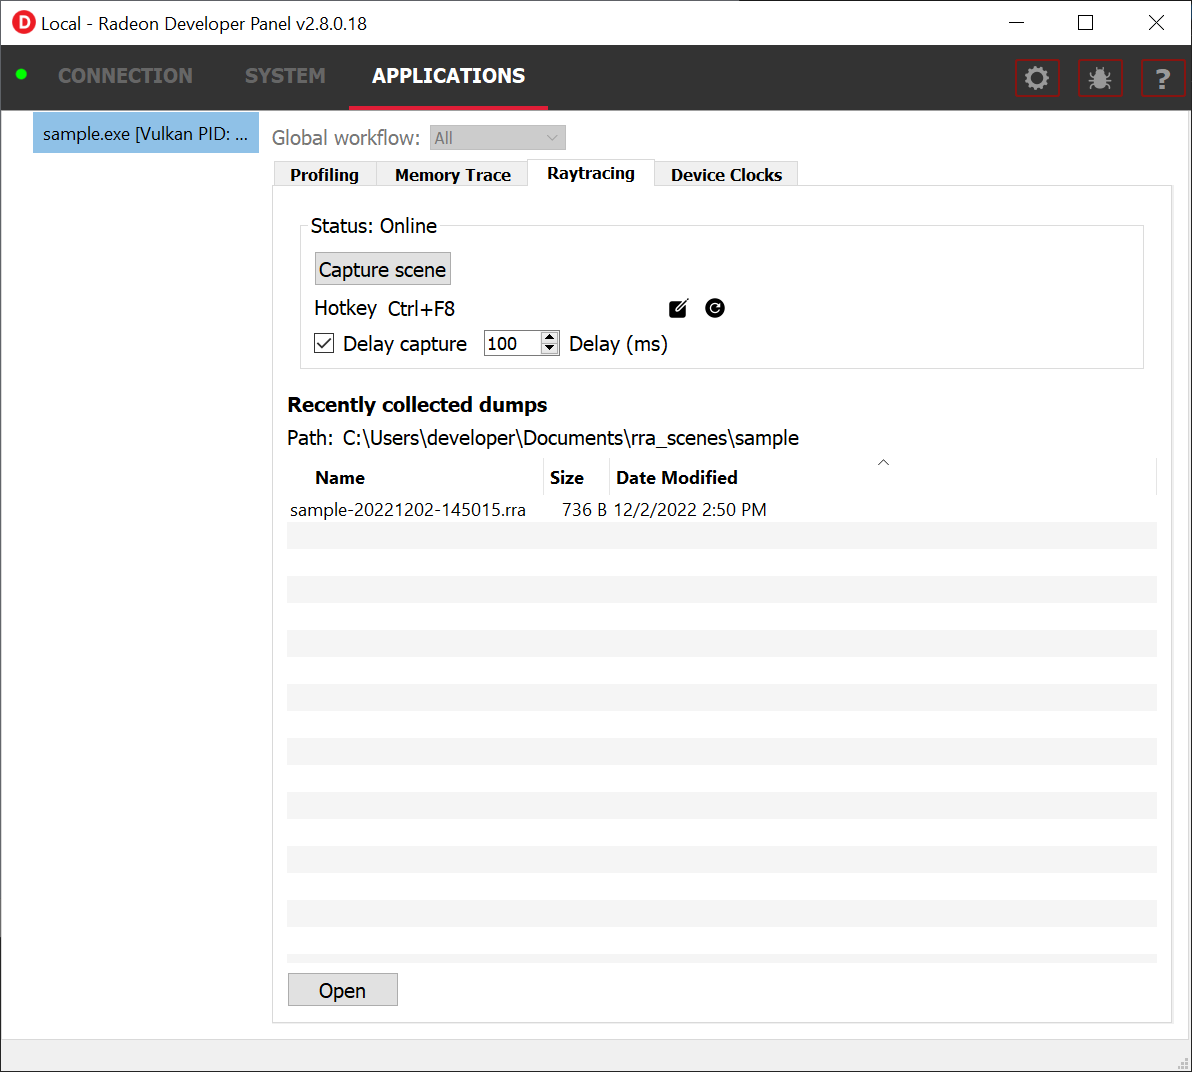
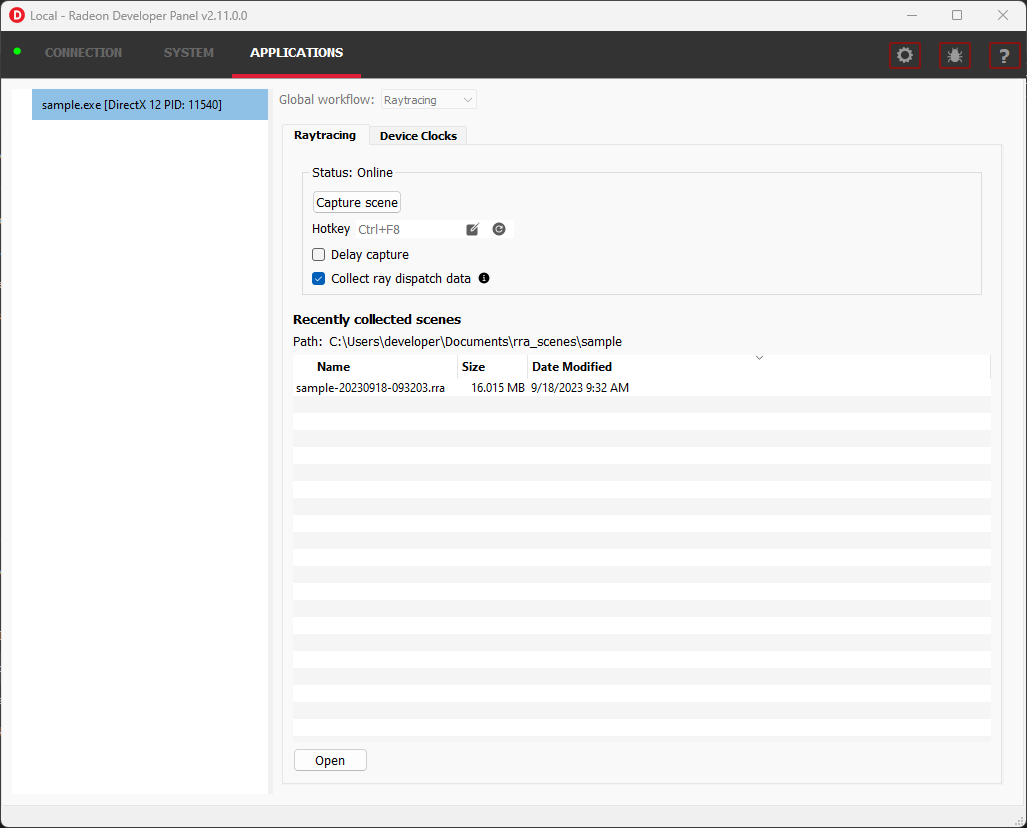
Update documentation for 2.11 release (#41)

diff --git a/docs/source/conf.py b/docs/source/conf.py
@@ -54,9 +54,9 @@ author = u'AMD Developer Tools'
 # built documents.
 #
 # The short X.Y version.
-version = u'2.10.0'
+version = u'2.11.0'
 # The full version, including alpha/beta/rc tags.
-release = u'2.10.0'
+release = u'2.11.0'
 
 # The language for content autogenerated by Sphinx. Refer to documentation
 # for a list of supported languages.

diff --git a/docs/source/index.rst b/docs/source/index.rst
@@ -3,7 +3,7 @@
 
 The Radeon Developer Panel is part of a suite of tools that can be used
 by developers to optimize DirectX® 12, Vulkan® and OpenCL™ applications for AMD RDNA™
-and GCN hardware. The suite is comprised of the following software:
+hardware. The suite is comprised of the following software:
 
 -  **Radeon Developer Mode Driver** – This is shipped as part of the AMD
    public driver and supports the developer mode features
@@ -33,7 +33,7 @@ and GCN hardware. The suite is comprised of the following software:
    the raytracing data.
 
    This document describes how the Radeon Developer Panel can be used to capture
-   a profile, memory trace or a raytracing scene for an application on AMD RDNA and GCN graphics hardware. The
+   a profile, memory trace or a raytracing scene for an application on AMD RDNA graphics hardware. The
    Radeon Developer Panel connects to the Radeon Developer Service in
    order to collect a profile, trace or scene.
 
@@ -51,7 +51,7 @@ and GCN hardware. The suite is comprised of the following software:
    300 MB video memory for the single shader engine with instruction tracing enabled.
    As of v2.6 this can now be configured in the workflow settings.
 
-Graphics APIs, RDNA and GCN hardware, and operating systems
+Graphics APIs, RDNA hardware, and operating systems
 ---------------------------------------------------------------------
 
 **Supported APIs**
@@ -60,7 +60,7 @@ Graphics APIs, RDNA and GCN hardware, and operating systems
 
 -  Vulkan
 
-\ **Supported RDNA and GCN hardware**
+\ **Supported RDNA hardware**
 
 -  AMD Radeon RX 7000 series
 
@@ -68,17 +68,7 @@ Graphics APIs, RDNA and GCN hardware, and operating systems
 
 -  AMD Radeon RX 5000 series
 
--  AMD Radeon VII
-
--  AMD RX Vega 64 and RX Vega 56
-
 -  AMD Ryzen™ Processors with Radeon Graphics
-
--  AMD Radeon R9 Fury and Nano series
-
--  AMD Radeon RX 400 and RX 500 series
-
--  AMD Tonga R9 285, R9 380
 
 \ **Supported Operating Systems**
 
@@ -88,7 +78,7 @@ Graphics APIs, RDNA and GCN hardware, and operating systems
 
 -  Ubuntu 22.04 LTS (Vulkan only)
 
-Compute APIs, RDNA and GCN hardware, and operating systems
+Compute APIs, RDNA hardware, and operating systems
 --------------------------------------------------------------------
 
 **Supported APIs**
@@ -97,17 +87,13 @@ Compute APIs, RDNA and GCN hardware, and operating systems
 
 -  HIP
 
-\ **Supported RDNA and GCN hardware**
+\ **Supported RDNA hardware**
 
 -  AMD Radeon RX 7000 series
 
 -  AMD Radeon RX 6000 series
 
 -  AMD Radeon RX 5000 series
-
--  AMD Radeon VII
-
--  AMD RX Vega 64 and RX Vega 56
 
 -  AMD Ryzen Processors with Radeon Graphics
 
@@ -313,6 +299,9 @@ The following are the configurable options for raytracing
    * Defines the output path for saving captured raytracing scenes
    * Use the macro **$(APP_NAME)** to insert the connected application's name into path
 
+- **Ray dispatch buffer size**:
+   * Defines the buffer size in system memory used for allocating ray dispatch data during scene capture
+
 .. image:: media/Workflow_Raytracing_Config.png
 
 **Crash Analysis Configuration**
@@ -513,6 +502,11 @@ The raytracing UI has the following elements:
 - **Capture scene** - Captures a scene and writes to disk
 
 - **Delay capture** - If this is enabled, pressing the capture scene button or triggering the hotkey will first wait the entered number of milliseconds before capturing.
+
+- **Collect ray dispatch data** - Enables capturing ray dispatches
+
+    .. NOTE::
+        This feature is currently experimental on **Linux** and requires at least 16GB of system memory to work reliably in most cases.
 
 - **Recently collected scenes** - Displays any recently collected scenes found in the output directory
 
